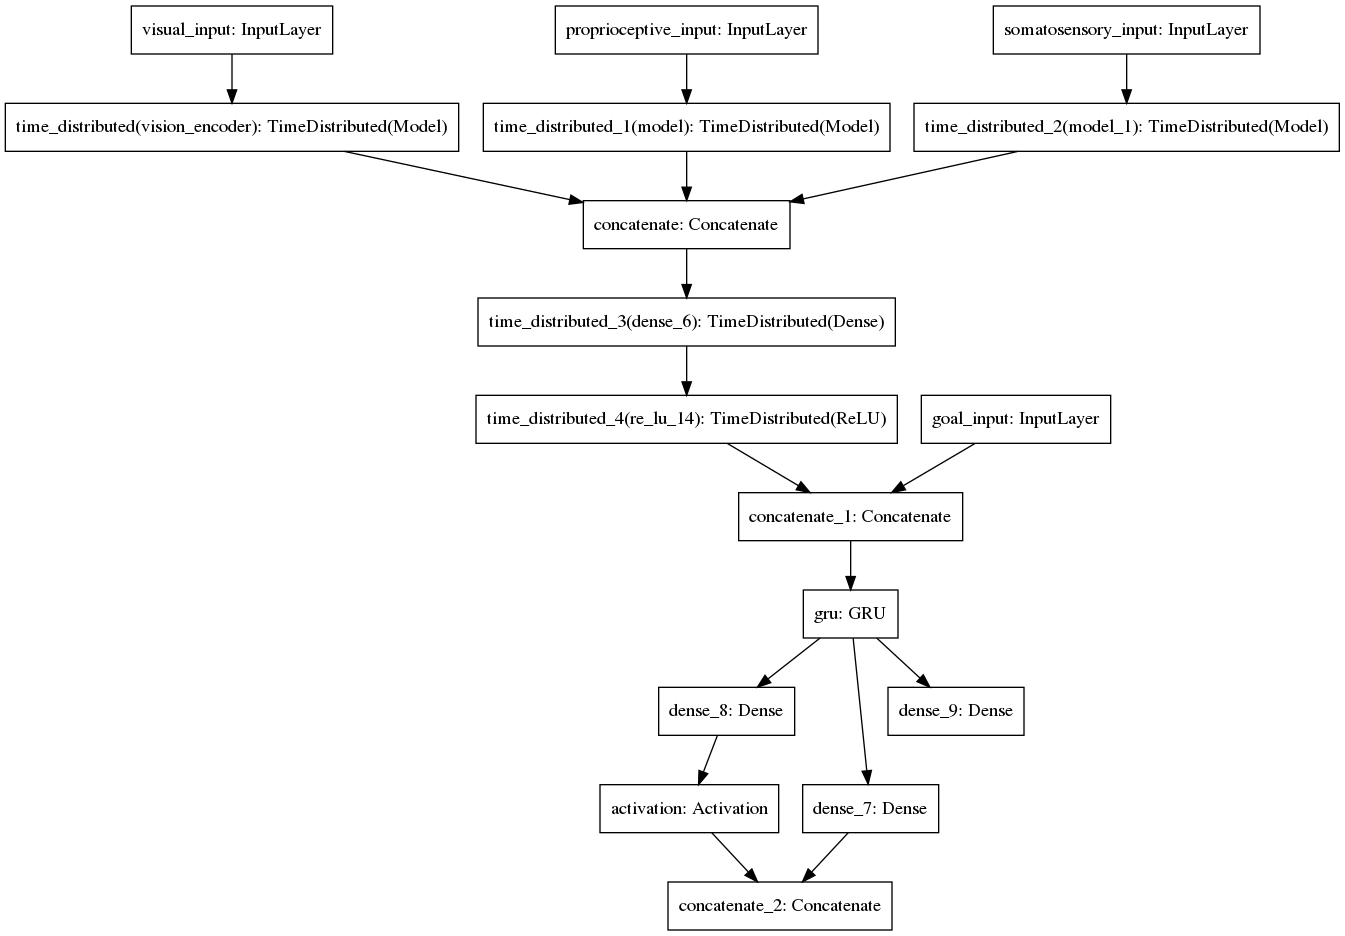
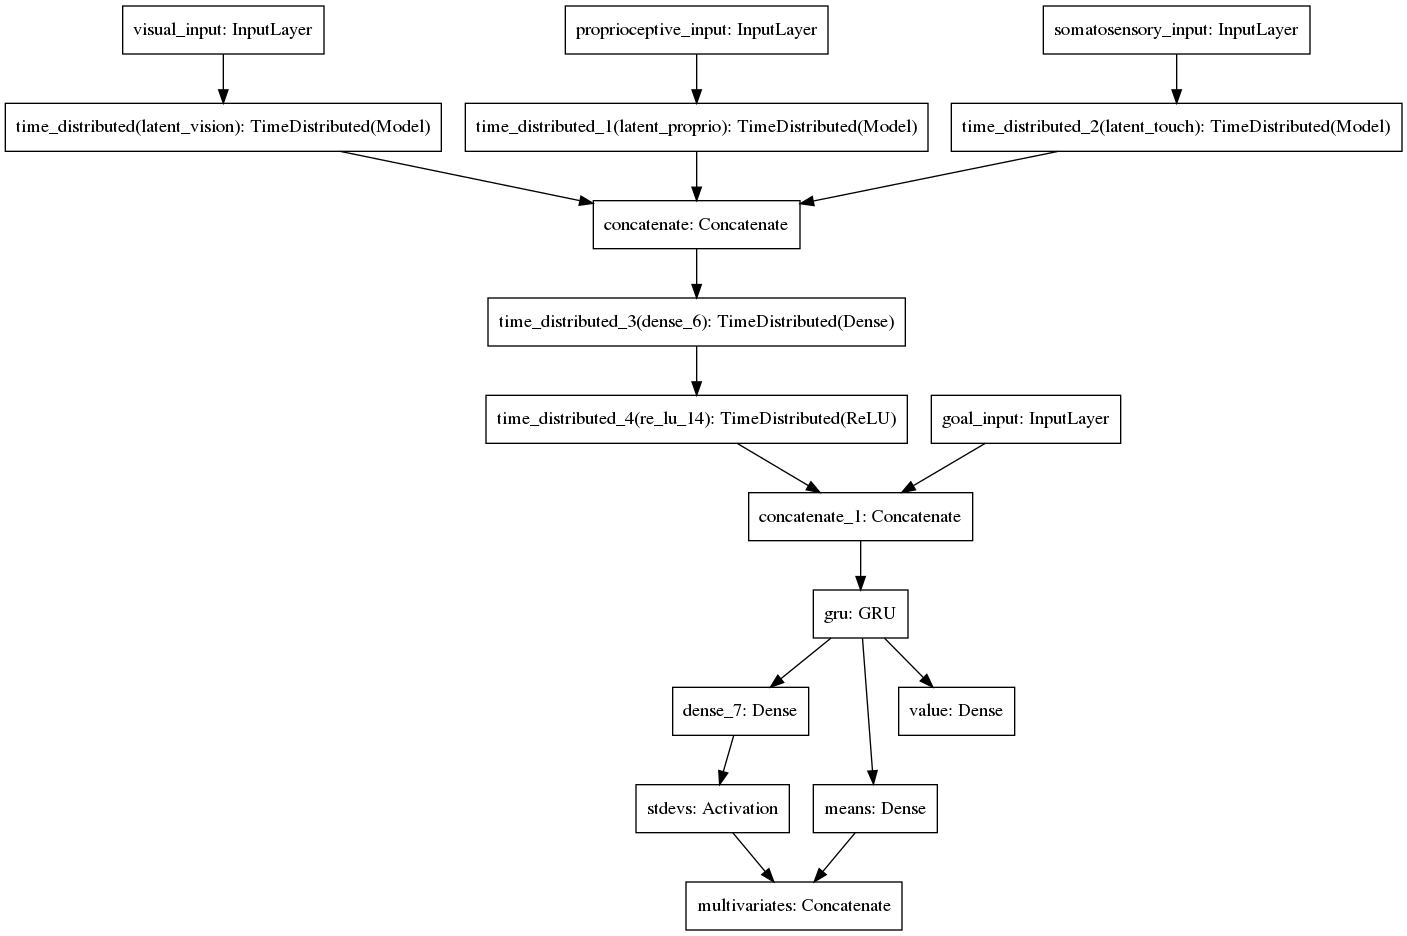
Some minor adjustments.

diff --git a/agent/ppo.py b/agent/ppo.py
@@ -98,6 +98,7 @@ class PPOAgent:
         self.policy, self.value, self.joint = model_builder(self.env, **({"bs": 1} if "bs" in fargs(
             model_builder).args else {}))
         self.optimizer: Optimizer = tf.keras.optimizers.Adam(learning_rate=self.learning_rate, epsilon=1e-5)
+        self.is_recurrent = is_recurrent_model(self.policy)
 
         # passing one sample, which for some reason prevents cuDNN init error
         if "observation" in self.env.observation_space.sample():
@@ -267,7 +268,7 @@ class PPOAgent:
             if not separate_eval:
                 if stats.numb_completed_episodes == 0:
                     print("WARNING: You are using a horizon that caused this cycle to not finish a single episode. "
-                          "Consider activating seperate evaluation in drill() to get meaningful statistics.")
+                          "Consider activating separate evaluation in drill() to get meaningful statistics.")
 
                 self.episode_length_history.extend(stats.episode_lengths)
                 self.episode_reward_history.extend(stats.episode_rewards)
@@ -296,7 +297,8 @@ class PPOAgent:
 
             flat_print("Finalizing...")
             self.time_dicts.append(time_dict)
-            self.current_fps = stats.numb_processed_frames / (sum([v for v in time_dict.values() if v is not None]))
+            self.current_fps = stats.numb_processed_frames * (int(self.is_recurrent) * self.tbptt_length) / (
+                sum([v for v in time_dict.values() if v is not None]))
             self.total_frames_seen += stats.numb_processed_frames
             self.total_episodes_seen += stats.numb_completed_episodes
 
@@ -332,7 +334,7 @@ class PPOAgent:
         Returns:
             None
         """
-        progressbar = tqdm(total=epochs * ((self.horizon * self.workers / self.tbptt_length) / batch_size))
+        progressbar = tqdm(total=epochs * ((self.horizon * self.workers / self.tbptt_length) / batch_size), leave=False)
         actor_loss_history, critic_loss_history, entropy_history = [], [], []
         for epoch in range(epochs):
             # for each epoch, dataset first should be shuffled to break correlation, then divided into batches

diff --git a/models/hybrid.py b/models/hybrid.py
@@ -29,9 +29,9 @@ def build_shadow_brain(env: gym.Env, bs: int):
     goal_in = tf.keras.Input(batch_shape=(bs, None, 7,), name="goal_input")
 
     # abstractions of perceptive inputs
-    visual_latent = TD(_build_visual_encoder(shape=(224, 224, 3), batch_size=bs, name="vision_encoder"))(visual_in)
-    proprio_latent = TD(_build_non_visual_component(48, 12, 8, batch_size=bs))(proprio_in)
-    touch_latent = TD(_build_non_visual_component(92, 24, 8, batch_size=bs))(touch_in)
+    visual_latent = TD(_build_visual_encoder(shape=(224, 224, 3), batch_size=bs, name="latent_vision"))(visual_in)
+    proprio_latent = TD(_build_non_visual_component(48, 12, 8, batch_size=bs, name="latent_proprio"))(proprio_in)
+    touch_latent = TD(_build_non_visual_component(92, 24, 8, batch_size=bs, name="latent_touch"))(touch_in)
 
     # concatenation of perceptive abstractions
     concatenation = tf.keras.layers.Concatenate()([visual_latent, proprio_latent, touch_latent])
@@ -89,7 +89,6 @@ if __name__ == "__main__":
 
             with tf.GradientTape() as tape:
                 out, v = joint(sample_batch, training=True)
-                print(out)
                 loss = tf.reduce_mean(out - v)
 
             grads = tape.gradient(loss, joint.trainable_variables)

diff --git a/environments/shadowhand.py b/environments/shadowhand.py
@@ -146,7 +146,7 @@ class ShadowHandBlock(ShadowHand, utils.EzPickle):
     """ShadowHand Environment with a Block as an object."""
 
     def __init__(self, target_position='random', target_rotation='xyz', touch_get_obs='sensordata',
-                 reward_type='sparse', visual_input: bool = False, max_steps=100):
+                 reward_type='not_sparse', visual_input: bool = False, max_steps=100):
         utils.EzPickle.__init__(self, target_position, target_rotation, touch_get_obs, reward_type)
         ShadowHand.__init__(self,
                             model_path=MANIPULATE_BLOCK_XML,
@@ -163,7 +163,7 @@ class ShadowHandEgg(ShadowHand, utils.EzPickle):
     """ShadowHand Environment with an Egg as an object."""
 
     def __init__(self, target_position='random', target_rotation='xyz', touch_get_obs='sensordata',
-                 reward_type='sparse', visual_input: bool = False, max_steps=100):
+                 reward_type='not_sparse', visual_input: bool = False, max_steps=100):
         utils.EzPickle.__init__(self, target_position, target_rotation, touch_get_obs, reward_type)
         ShadowHand.__init__(self,
                             model_path=MANIPULATE_EGG_XML,

diff --git a/models/components.py b/models/components.py
@@ -67,7 +67,8 @@ def _build_visual_decoder(shape, batch_size=None):
     return tf.keras.Model(inputs=inputs, outputs=x)
 
 
-def _build_non_visual_component(input_dim: int, hidden_dim: int, output_dim: int, batch_size: int = None):
+def _build_non_visual_component(input_dim: int, hidden_dim: int, output_dim: int, batch_size: int = None,
+                                name: str = None):
     inputs = tf.keras.Input(batch_shape=(batch_size, input_dim))
 
     x = tf.keras.layers.Dense(hidden_dim)(inputs)
@@ -75,7 +76,7 @@ def _build_non_visual_component(input_dim: int, hidden_dim: int, output_dim: int
     x = tf.keras.layers.Dense(output_dim)(x)
     x = tf.keras.layers.ReLU()(x)
 
-    return tf.keras.Model(inputs=inputs, outputs=x)
+    return tf.keras.Model(inputs=inputs, outputs=x, name=name)
 
 
 def _build_encoding_sub_model(inputs):
